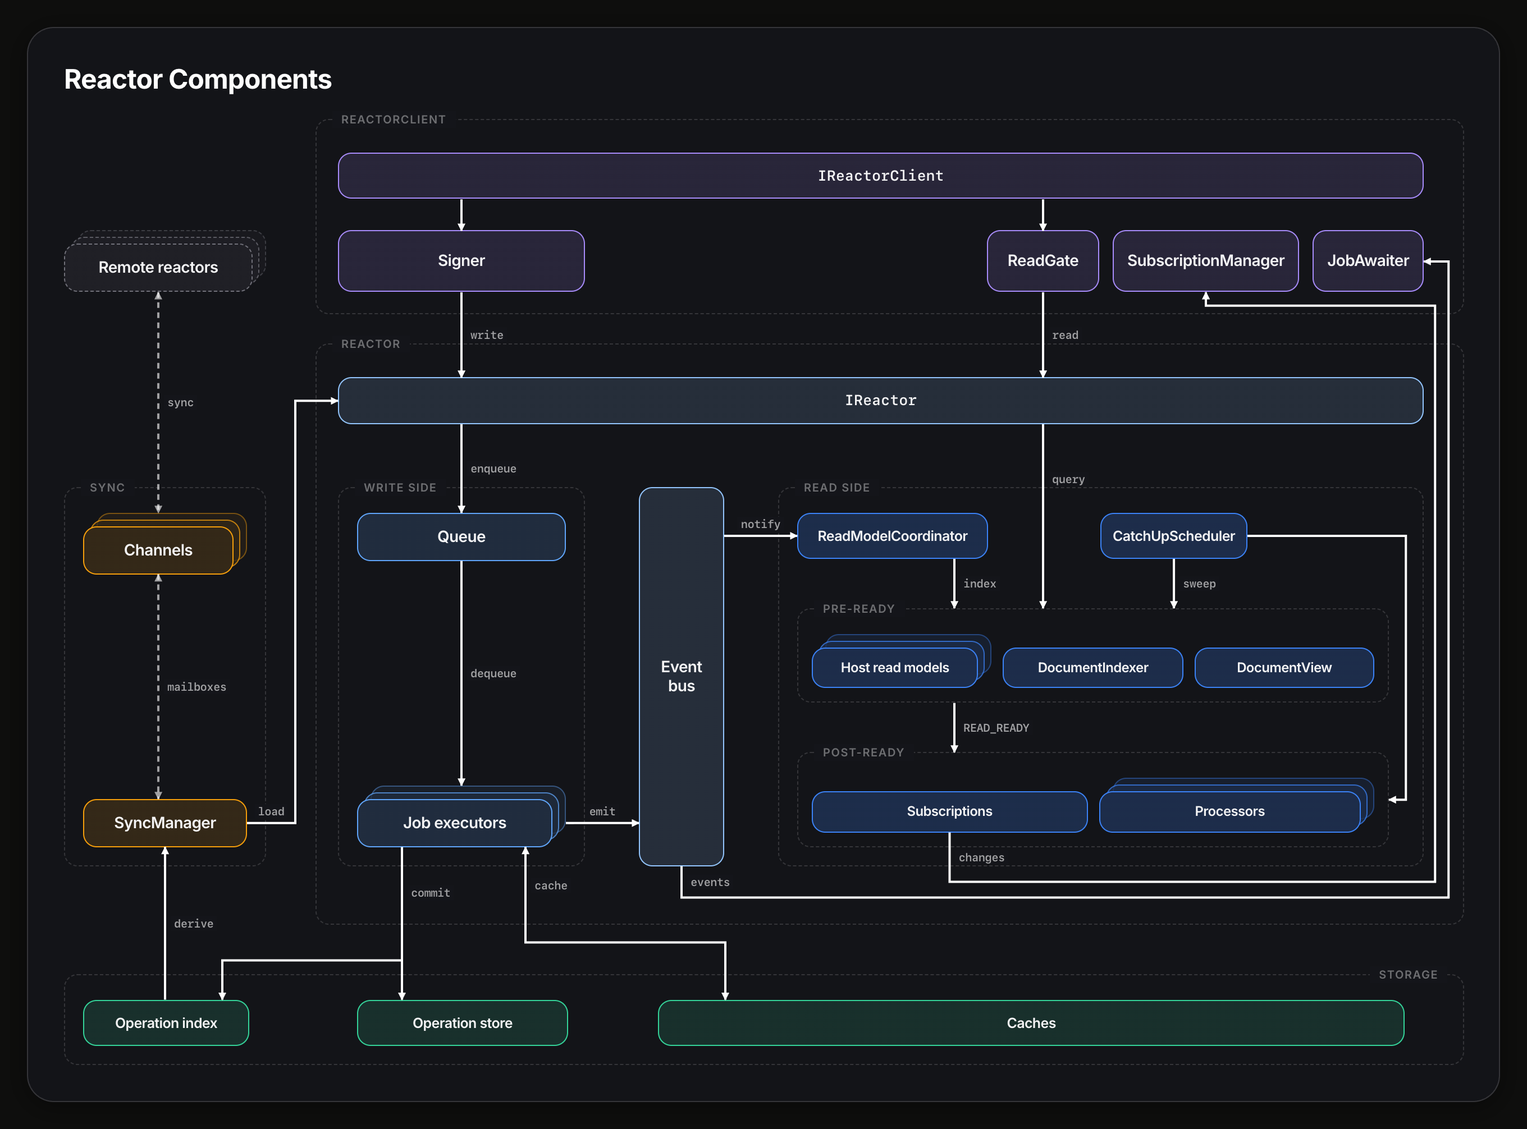
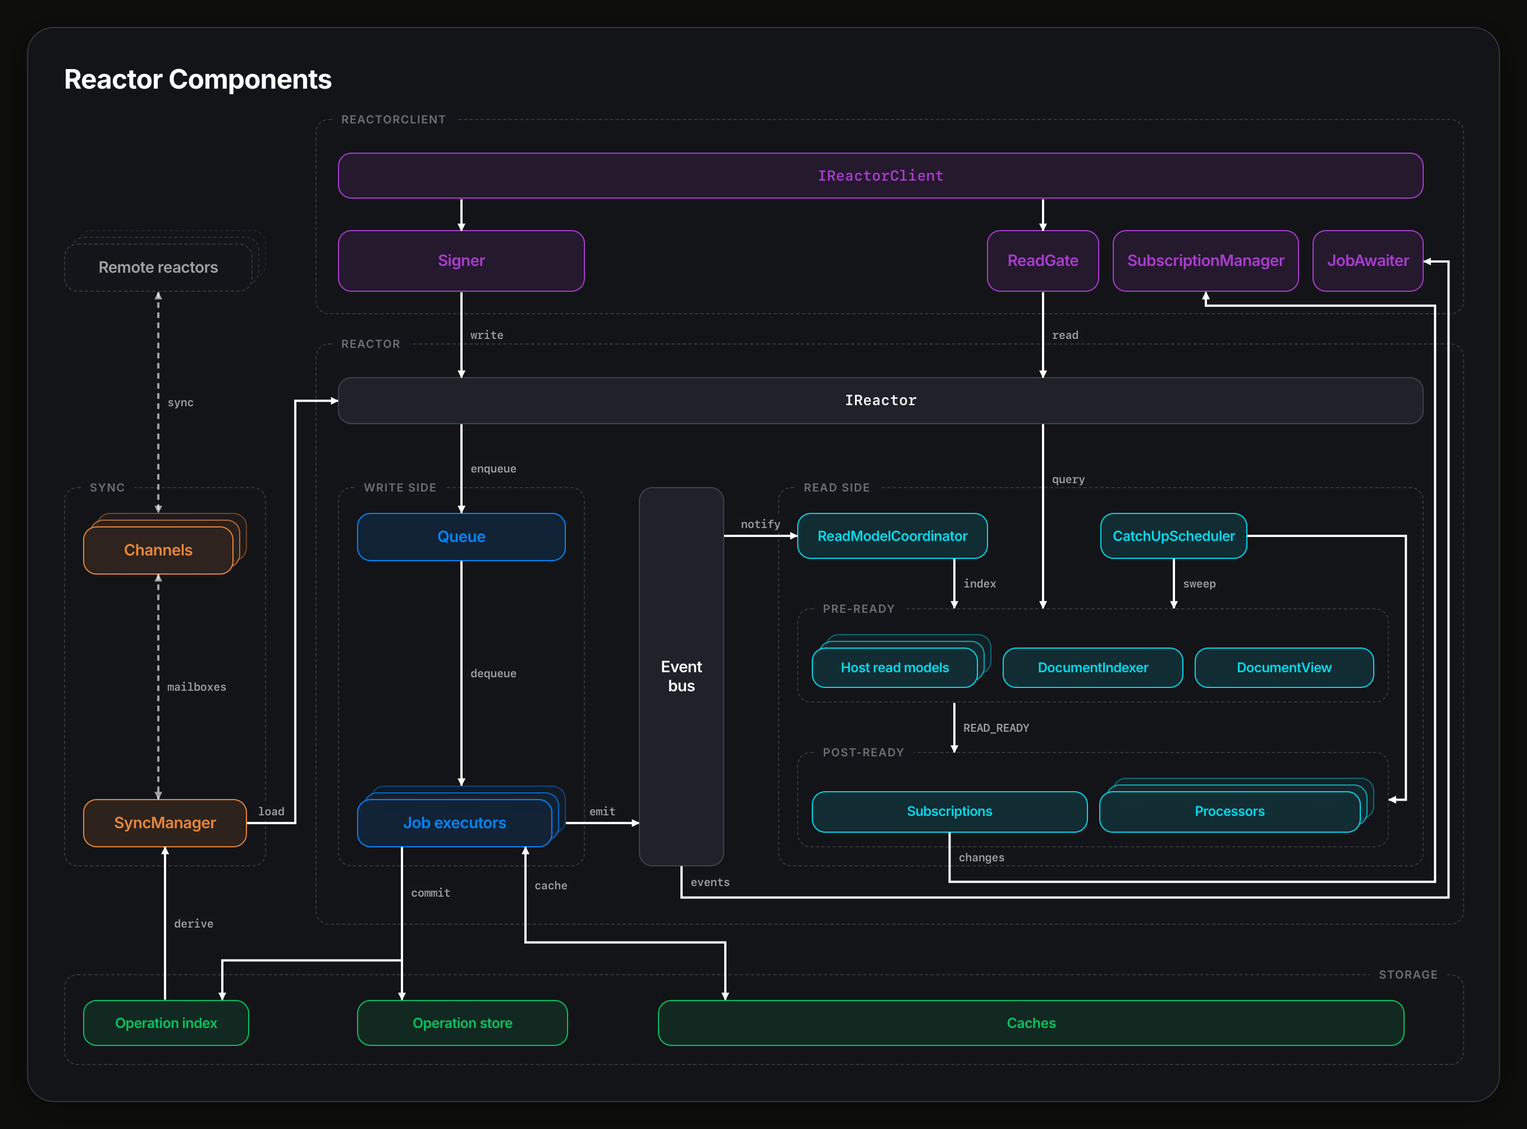
reactor diagrams: house accent colours
Drop the family tokens and classes for the brand accents the other
pages use (.box.accent-* defined per page, accent-coloured text, -bg
fills), adding the repo's orange as --accent-orange in tokens.css.
Each group takes one accent: client purple, write blue, read cyan,
sync orange, storage green. IReactor and the event bus are neutral,
and remote reactors and SyncScopeGate are dashed external boxes.

diff --git a/pages/reactor-components.html b/pages/reactor-components.html
@@ -41,6 +41,9 @@
     .box.accent-blue   { border-color: var(--accent-blue);   background: var(--accent-blue-bg);   color: var(--accent-blue); }
     .box.accent-green  { border-color: var(--accent-green);  background: var(--accent-green-bg);  color: var(--accent-green); }
     .box.accent-purple { border-color: var(--accent-purple); background: var(--accent-purple-bg); color: var(--accent-purple); }
+    .box.accent-orange { border-color: var(--accent-orange); background: var(--accent-orange-bg); color: var(--accent-orange); }
+    /* Outside the reactor: dashed, unfilled, secondary text */
+    .box.external { border-style: dashed; border-color: var(--border-glass); background: transparent; color: var(--text-secondary); }
     .box-title {
       font-size: 14px;
       font-weight: var(--font-weight-semibold);
@@ -263,61 +266,61 @@
           <div class="frame-bg client-frame"><span class="group-label">ReactorClient</span></div>
           <div class="frame-bg reactor-frame"><span class="group-label">Reactor</span></div>
 
-          <div class="box r1 fam-client" id="clientbar" style="grid-column:3 / 8"><div class="box-title mono">IReactorClient</div></div>
+          <div class="box r1 accent-purple" id="clientbar" style="grid-column:3 / 8"><div class="box-title mono">IReactorClient</div></div>
 
-          <div class="fanout dashed r2 fam-external" id="remote" style="grid-column:1"><div class="box variant fam-external"><div class="box-title">Remote reactors</div></div></div>
-          <div class="box r2 fam-client" id="signer" style="grid-column:3"><div class="box-title">Signer</div></div>
+          <div class="fanout dashed r2 external" id="remote" style="grid-column:1"><div class="box external"><div class="box-title">Remote reactors</div></div></div>
+          <div class="box r2 accent-purple" id="signer" style="grid-column:3"><div class="box-title">Signer</div></div>
           <div class="parts-right r2">
-            <div class="box fam-client" id="readgate"><div class="box-title">ReadGate</div></div>
-            <div class="box fam-client" id="submgr"><div class="box-title">SubscriptionManager</div></div>
-            <div class="box fam-client" id="awaiter"><div class="box-title">JobAwaiter</div></div>
+            <div class="box accent-purple" id="readgate"><div class="box-title">ReadGate</div></div>
+            <div class="box accent-purple" id="submgr"><div class="box-title">SubscriptionManager</div></div>
+            <div class="box accent-purple" id="awaiter"><div class="box-title">JobAwaiter</div></div>
           </div>
 
-          <div class="box r3 fam-reactor-core" id="reactor" style="grid-column:3 / 8"><div class="box-title mono">IReactor</div></div>
+          <div class="box r3" id="reactor" style="grid-column:3 / 8"><div class="box-title mono">IReactor</div></div>
 
           <div class="group col-stack r4" id="syncgroup" style="grid-column:1">
             <span class="group-label">Sync</span>
-            <div class="fanout fam-sync" id="channels"><div class="box fam-sync"><div class="box-title">Channels</div></div></div>
-            <div class="box fam-sync" id="sync"><div class="box-title">SyncManager</div></div>
+            <div class="fanout accent-orange" id="channels"><div class="box accent-orange"><div class="box-title">Channels</div></div></div>
+            <div class="box accent-orange" id="sync"><div class="box-title">SyncManager</div></div>
           </div>
 
           <div class="group col-stack r4" style="grid-column:3">
             <span class="group-label">Write side</span>
-            <div class="box fam-write" id="queue"><div class="box-title">Queue</div></div>
-            <div class="fanout fam-write" id="executor"><div class="box fam-write"><div class="box-title">Job executors</div></div></div>
+            <div class="box accent-blue" id="queue"><div class="box-title">Queue</div></div>
+            <div class="fanout accent-blue" id="executor"><div class="box accent-blue"><div class="box-title">Job executors</div></div></div>
           </div>
 
-          <div class="box bus r4 fam-reactor-core" id="bus"><div class="box-title">Event<br>bus</div></div>
+          <div class="box bus r4" id="bus"><div class="box-title">Event<br>bus</div></div>
 
           <div class="group col-stack r4" id="readside" style="grid-column:7">
             <span class="group-label">Read side</span>
             <div class="coord-row">
-              <div class="box fam-read" id="coordinator"><div class="box-title">ReadModelCoordinator</div></div>
+              <div class="box accent-cyan" id="coordinator"><div class="box-title">ReadModelCoordinator</div></div>
               <div></div>
-              <div class="box fam-read" id="catchup"><div class="box-title">CatchUpScheduler</div></div>
+              <div class="box accent-cyan" id="catchup"><div class="box-title">CatchUpScheduler</div></div>
             </div>
             <div class="group phase-group" id="pre">
               <span class="group-label">pre-ready</span>
               <div class="row three">
-                <div class="fanout fam-read" id="hostrm"><div class="box fam-read"><div class="box-title">Host read models</div></div></div>
-                <div class="box fam-read" id="indexer"><div class="box-title">DocumentIndexer</div></div>
-                <div class="box fam-read" id="docview"><div class="box-title">DocumentView</div></div>
+                <div class="fanout accent-cyan" id="hostrm"><div class="box accent-cyan"><div class="box-title">Host read models</div></div></div>
+                <div class="box accent-cyan" id="indexer"><div class="box-title">DocumentIndexer</div></div>
+                <div class="box accent-cyan" id="docview"><div class="box-title">DocumentView</div></div>
               </div>
             </div>
             <div class="group phase-group" id="post">
               <span class="group-label">post-ready</span>
               <div class="row two">
-                <div class="box fam-read" id="subs"><div class="box-title">Subscriptions</div></div>
-                <div class="fanout fam-read" id="processors"><div class="box fam-read"><div class="box-title">Processors</div></div></div>
+                <div class="box accent-cyan" id="subs"><div class="box-title">Subscriptions</div></div>
+                <div class="fanout accent-cyan" id="processors"><div class="box accent-cyan"><div class="box-title">Processors</div></div></div>
               </div>
             </div>
           </div>
 
           <div class="group storage r5" id="storage">
             <span class="group-label right">Storage</span>
-            <div class="box fam-storage" id="opindex" style="grid-column:1"><div class="box-title">Operation index</div></div>
-            <div class="box fam-storage" id="opstore" style="grid-column:3"><div class="box-title">Operation store</div></div>
-            <div class="box fam-storage" id="caches" style="grid-column:5 / 8"><div class="box-title">Caches</div></div>
+            <div class="box accent-green" id="opindex" style="grid-column:1"><div class="box-title">Operation index</div></div>
+            <div class="box accent-green" id="opstore" style="grid-column:3"><div class="box-title">Operation store</div></div>
+            <div class="box accent-green" id="caches" style="grid-column:5 / 8"><div class="box-title">Caches</div></div>
           </div>
         </div>
       </div>

diff --git a/pages/reactor-sync.html b/pages/reactor-sync.html
@@ -41,6 +41,9 @@
     .box.accent-blue   { border-color: var(--accent-blue);   background: var(--accent-blue-bg);   color: var(--accent-blue); }
     .box.accent-green  { border-color: var(--accent-green);  background: var(--accent-green-bg);  color: var(--accent-green); }
     .box.accent-purple { border-color: var(--accent-purple); background: var(--accent-purple-bg); color: var(--accent-purple); }
+    .box.accent-orange { border-color: var(--accent-orange); background: var(--accent-orange-bg); color: var(--accent-orange); }
+    /* Outside the reactor: dashed, unfilled, secondary text */
+    .box.external { border-style: dashed; border-color: var(--border-glass); background: transparent; color: var(--text-secondary); }
     .box-title {
       font-size: 14px;
       font-weight: var(--font-weight-semibold);
@@ -206,7 +209,7 @@
       GqlResponseChannel ...... channels/gql-res-channel.ts:23; reactor-api/src/graphql/reactor/resolvers.ts:2214, :1803
       SyncScopeGate · filters . decision/sync-scope-gate.ts:20, :41; reactor-api/src/services/sync-serving-gate.ts:40-48;
                                 applied reactor-api/src/graphql/reactor/resolvers.ts:1754-1767 (never inside packages/reactor)
-                                Coloured external: reactor-api applies it outside the reactor
+                                Styled external: reactor-api applies it outside the reactor
   -->
   <div class="frame">
     <div class="card">
@@ -220,34 +223,34 @@
           <div class="frame-col" style="grid-column:2"><span class="group-label">SyncManager</span></div>
           <div class="frame-col" id="chan-frame" style="grid-column:3"><span class="group-label">Channel</span></div>
 
-          <div class="box fam-reactor-core" id="ev" style="grid-column:1;grid-row:1"><div class="box-title mono">JOB_WRITE_READY</div></div>
-          <div class="box fam-sync" id="agg" style="grid-column:2;grid-row:1"><div class="box-title">BatchAggregator</div></div>
+          <div class="box" id="ev" style="grid-column:1;grid-row:1"><div class="box-title mono">JOB_WRITE_READY</div></div>
+          <div class="box accent-orange" id="agg" style="grid-column:2;grid-row:1"><div class="box-title">BatchAggregator</div></div>
 
-          <div class="box fam-storage" id="oi" style="grid-column:1;grid-row:2"><div class="box-title">Operation index</div></div>
-          <div class="box fam-sync" id="derive" style="grid-column:2;grid-row:2"><div class="box-title">Derive outbox</div></div>
-          <div class="box mailbox fam-sync" id="outbox" style="grid-column:3;grid-row:2"><div class="box-title mono">outbox</div></div>
-          <div class="fanout dashed fam-external" id="remote" style="grid-column:4;grid-row:2 / 5;margin-top:0"><div class="box variant fam-external"><div class="box-title">Remote reactors</div></div></div>
+          <div class="box accent-green" id="oi" style="grid-column:1;grid-row:2"><div class="box-title">Operation index</div></div>
+          <div class="box accent-orange" id="derive" style="grid-column:2;grid-row:2"><div class="box-title">Derive outbox</div></div>
+          <div class="box mailbox accent-orange" id="outbox" style="grid-column:3;grid-row:2"><div class="box-title mono">outbox</div></div>
+          <div class="fanout dashed external" id="remote" style="grid-column:4;grid-row:2 / 5;margin-top:0"><div class="box external"><div class="box-title">Remote reactors</div></div></div>
 
           <div class="group state-grid" id="state" style="grid-column:2;grid-row:3">
             <span class="group-label">Sync state</span>
-            <div class="box fam-sync" id="holds"><div class="box-title">Holds</div></div>
-            <div class="box fam-sync" id="deadletters"><div class="box-title">Dead letters</div></div>
-            <div class="box fam-sync" id="refusals"><div class="box-title">Purge refusals</div></div>
+            <div class="box accent-orange" id="holds"><div class="box-title">Holds</div></div>
+            <div class="box accent-orange" id="deadletters"><div class="box-title">Dead letters</div></div>
+            <div class="box accent-orange" id="refusals"><div class="box-title">Purge refusals</div></div>
           </div>
-          <div class="box mailbox fam-sync" id="dead" style="grid-column:3;grid-row:3;align-self:end;margin-bottom:12px;height:74px"><div class="box-title mono">deadLetter</div></div>
+          <div class="box mailbox accent-orange" id="dead" style="grid-column:3;grid-row:3;align-self:end;margin-bottom:12px;height:74px"><div class="box-title mono">deadLetter</div></div>
 
-          <div class="box fam-reactor-core" id="reactor" style="grid-column:1;grid-row:4"><div class="box-title mono">IReactor</div></div>
-          <div class="box fam-sync" id="apply" style="grid-column:2;grid-row:4"><div class="box-title">Apply inbox</div></div>
-          <div class="box mailbox fam-sync" id="inbox" style="grid-column:3;grid-row:4"><div class="box-title mono">inbox</div></div>
+          <div class="box" id="reactor" style="grid-column:1;grid-row:4"><div class="box-title mono">IReactor</div></div>
+          <div class="box accent-orange" id="apply" style="grid-column:2;grid-row:4"><div class="box-title">Apply inbox</div></div>
+          <div class="box mailbox accent-orange" id="inbox" style="grid-column:3;grid-row:4"><div class="box-title mono">inbox</div></div>
         </div>
         <div class="types-row" id="types-row">
           <div class="group types" id="types">
             <span class="group-label">Channel types</span>
-            <div class="box fam-sync" id="gqlreq"><div class="box-title mono">GqlRequestChannel</div></div>
-            <div class="box fam-sync" id="localch"><div class="box-title mono">LocalChannel</div></div>
-            <div class="box fam-sync" id="gqlres"><div class="box-title mono">GqlResponseChannel</div></div>
+            <div class="box accent-orange" id="gqlreq"><div class="box-title mono">GqlRequestChannel</div></div>
+            <div class="box accent-orange" id="localch"><div class="box-title mono">LocalChannel</div></div>
+            <div class="box accent-orange" id="gqlres"><div class="box-title mono">GqlResponseChannel</div></div>
           </div>
-          <div class="box fam-external" id="gate"><div class="box-title">SyncScopeGate</div></div>
+          <div class="box external" id="gate"><div class="box-title">SyncScopeGate</div></div>
         </div>
         </div>
       </div>

diff --git a/pages/reactor-write-path.html b/pages/reactor-write-path.html
@@ -41,6 +41,9 @@
     .box.accent-blue   { border-color: var(--accent-blue);   background: var(--accent-blue-bg);   color: var(--accent-blue); }
     .box.accent-green  { border-color: var(--accent-green);  background: var(--accent-green-bg);  color: var(--accent-green); }
     .box.accent-purple { border-color: var(--accent-purple); background: var(--accent-purple-bg); color: var(--accent-purple); }
+    .box.accent-orange { border-color: var(--accent-orange); background: var(--accent-orange-bg); color: var(--accent-orange); }
+    /* Outside the reactor: dashed, unfilled, secondary text */
+    .box.external { border-style: dashed; border-color: var(--border-glass); background: transparent; color: var(--text-secondary); }
     .box-title {
       font-size: 14px;
       font-weight: var(--font-weight-semibold);
@@ -215,38 +218,38 @@
           <svg class="wires" id="wires"></svg>
 
           <div class="entry">
-            <div class="box fam-client" id="p-client"><div class="box-title mono">IReactorClient</div></div>
-            <div class="box fam-sync" id="p-sync"><div class="box-title">SyncManager</div></div>
-            <div class="box fam-reactor-core" id="p-trigger"><div class="box-title">GroupReevaluationTrigger</div></div>
-            <div class="box fam-reactor-core" id="p-purge"><div class="box-title">DocumentPurgeService</div></div>
-            <div class="box wide fam-reactor-core" id="reactor"><div class="box-title mono">IReactor</div></div>
-            <div class="box wide fam-write" id="queue"><div class="box-title">Queue</div></div>
+            <div class="box accent-purple" id="p-client"><div class="box-title mono">IReactorClient</div></div>
+            <div class="box accent-orange" id="p-sync"><div class="box-title">SyncManager</div></div>
+            <div class="box" id="p-trigger"><div class="box-title">GroupReevaluationTrigger</div></div>
+            <div class="box" id="p-purge"><div class="box-title">DocumentPurgeService</div></div>
+            <div class="box wide" id="reactor"><div class="box-title mono">IReactor</div></div>
+            <div class="box wide accent-blue" id="queue"><div class="box-title">Queue</div></div>
           </div>
 
           <div class="group" id="exec-group">
             <span class="group-label right">Job executor · one transaction</span>
             <div class="exec">
-              <div class="box step fam-write" id="s1"><div class="box-title">Lock</div></div>
-              <div class="box step fam-write" id="s2"><div class="box-title">Admit signatures</div></div>
-              <div class="box outcome fam-write" id="o2"><div class="box-title">Refused</div></div>
-              <div class="box step fam-write" id="s3"><div class="box-title">Decide authorization</div></div>
-              <div class="box outcome fam-write" id="o3"><div class="box-title">Denied</div></div>
-              <div class="box step fam-write" id="s4"><div class="box-title">Load and reduce</div></div>
-              <div class="box step fam-write" id="s5"><div class="box-title">Commit</div></div>
+              <div class="box step accent-blue" id="s1"><div class="box-title">Lock</div></div>
+              <div class="box step accent-blue" id="s2"><div class="box-title">Admit signatures</div></div>
+              <div class="box outcome accent-blue" id="o2"><div class="box-title">Refused</div></div>
+              <div class="box step accent-blue" id="s3"><div class="box-title">Decide authorization</div></div>
+              <div class="box outcome accent-blue" id="o3"><div class="box-title">Denied</div></div>
+              <div class="box step accent-blue" id="s4"><div class="box-title">Load and reduce</div></div>
+              <div class="box step accent-blue" id="s5"><div class="box-title">Commit</div></div>
             </div>
           </div>
 
-          <div class="box event fam-reactor-core" id="ev-write"><div class="box-title mono">JOB_WRITE_READY</div></div>
+          <div class="box event" id="ev-write"><div class="box-title mono">JOB_WRITE_READY</div></div>
 
           <div class="group" id="read-group">
             <span class="group-label">ReadModelCoordinator</span>
             <div class="readside">
-              <div class="box s2 fam-read" id="r-view"><div class="box-title">DocumentView</div></div>
-              <div class="box s2 fam-read" id="r-index"><div class="box-title">DocumentIndexer</div></div>
-              <div class="fanout s2 fam-read" id="r-host"><div class="box fam-read"><div class="box-title">Host read models</div></div></div>
-              <div class="box event full fam-read" id="ev-read"><div class="box-title mono">JOB_READ_READY</div></div>
-              <div class="box s3 fam-read" id="r-subs"><div class="box-title">Subscriptions</div></div>
-              <div class="fanout s3 fam-read" id="r-proc"><div class="box fam-read"><div class="box-title">Processors</div></div></div>
+              <div class="box s2 accent-cyan" id="r-view"><div class="box-title">DocumentView</div></div>
+              <div class="box s2 accent-cyan" id="r-index"><div class="box-title">DocumentIndexer</div></div>
+              <div class="fanout s2 accent-cyan" id="r-host"><div class="box accent-cyan"><div class="box-title">Host read models</div></div></div>
+              <div class="box event full accent-cyan" id="ev-read"><div class="box-title mono">JOB_READ_READY</div></div>
+              <div class="box s3 accent-cyan" id="r-subs"><div class="box-title">Subscriptions</div></div>
+              <div class="fanout s3 accent-cyan" id="r-proc"><div class="box accent-cyan"><div class="box-title">Processors</div></div></div>
             </div>
           </div>
         </div>

diff --git a/css/components.css b/css/components.css
@@ -401,6 +401,7 @@
 .fanout.accent-blue   { --fanout-line: var(--accent-blue);   --fanout-fill: var(--accent-blue-bg); }
 .fanout.accent-green  { --fanout-line: var(--accent-green);  --fanout-fill: var(--accent-green-bg); }
 .fanout.accent-purple { --fanout-line: var(--accent-purple); --fanout-fill: var(--accent-purple-bg); }
+.fanout.accent-orange { --fanout-line: var(--accent-orange); --fanout-fill: var(--accent-orange-bg); }
 
 .fanout::before,
 .fanout::after {
@@ -422,31 +423,4 @@
   flex: 1;
   background-color: var(--bg-surface) !important;
   background-image: linear-gradient(var(--fanout-fill), var(--fanout-fill)) !important;
-}
-
-/* ========================================
-   Subsystem colour families
-   Put .fam-<family> on a .box, or on a .fanout wrapper and its front box.
-   Every box in a family shares one border and one fill; text stays
-   near-white. Tokens live in tokens.css. Older pages keep using .accent-*.
-   ======================================== */
-
-.fam-client       { --fam-border: var(--family-client-border);       --fam-fill: var(--family-client-fill); }
-.fam-reactor-core { --fam-border: var(--family-reactor-core-border); --fam-fill: var(--family-reactor-core-fill); }
-.fam-write        { --fam-border: var(--family-write-border);        --fam-fill: var(--family-write-fill); }
-.fam-read         { --fam-border: var(--family-read-border);         --fam-fill: var(--family-read-fill); }
-.fam-sync         { --fam-border: var(--family-sync-border);         --fam-fill: var(--family-sync-fill); }
-.fam-storage      { --fam-border: var(--family-storage-border);      --fam-fill: var(--family-storage-fill); }
-.fam-external     { --fam-border: var(--family-external-border);     --fam-fill: var(--family-external-fill); }
-
-/* The fill is laid over the card surface, so a box reads the same whether
-   it stands alone or fronts a .fanout stack (which must be opaque). */
-.box.box[class*="fam-"] {
-  border-color: var(--fam-border);
-  background: linear-gradient(var(--fam-fill), var(--fam-fill)), var(--bg-surface);
-  color: var(--family-text);
-}
-.fanout[class*="fam-"] {
-  --fanout-line: var(--fam-border);
-  --fanout-fill: var(--fam-fill);
 }

diff --git a/css/tokens.css b/css/tokens.css
@@ -59,15 +59,8 @@
   --shadow-elevated: 0 8px 32px rgba(0, 0, 0, 0.6);
 }
 
-/* Subsystem colour families: one border and one faint fill per subsystem.
-   Box text stays near-white; see .fam-* in components.css. */
+/* Orange, shared: first used in pages/channel-mailbox-breakdown.html */
 :root {
-  --family-text: #f4f4f5;
-  --family-client-border:       #a78bfa;  --family-client-fill:       rgba(167, 139, 250, 0.14);
-  --family-reactor-core-border: #93c5fd;  --family-reactor-core-fill: rgba(147, 197, 253, 0.14);
-  --family-write-border:        #60a5fa;  --family-write-fill:        rgba(96, 165, 250, 0.16);
-  --family-read-border:         #3b82f6;  --family-read-fill:         rgba(59, 130, 246, 0.22);
-  --family-sync-border:         #f59e0b;  --family-sync-fill:         rgba(245, 158, 11, 0.14);
-  --family-storage-border:      #34d399;  --family-storage-fill:      rgba(52, 211, 153, 0.14);
-  --family-external-border:     #71717a;  --family-external-fill:     rgba(113, 113, 122, 0.12);
+  --accent-orange: #e8863a;
+  --accent-orange-bg: rgba(232, 134, 58, 0.12);
 }
